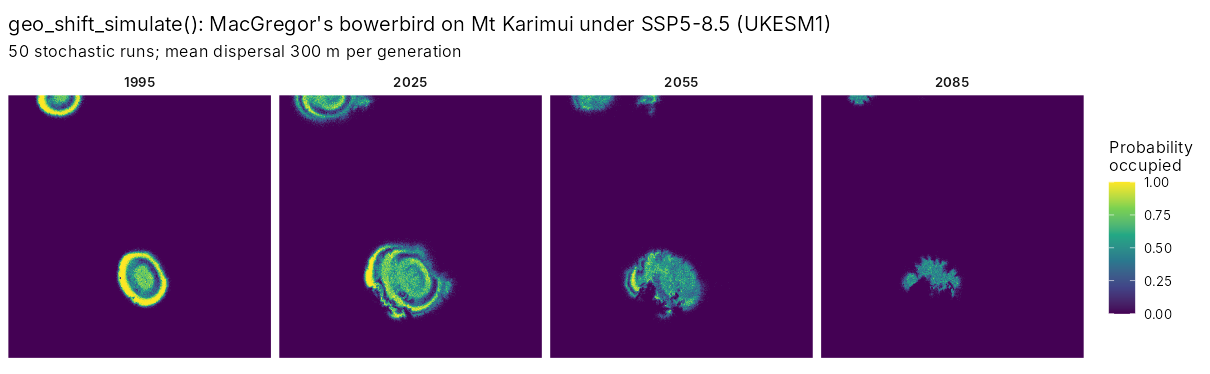
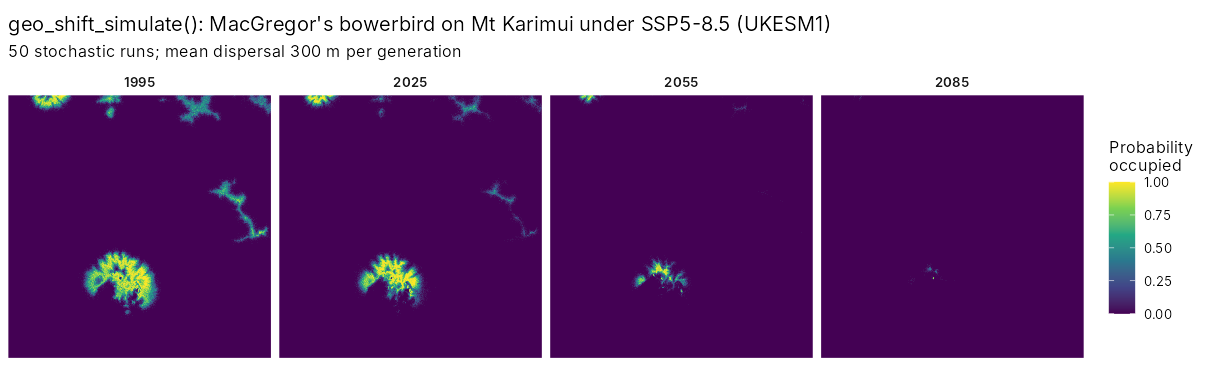
Regenerated range-shift figures with the corrected model; guide and paper updates

diff --git a/paper/paper.md b/paper/paper.md
@@ -129,7 +129,14 @@ then runs a stochastic colonisation-extinction model with a dispersal
 kernel in parallel C++ [@hanski1998], and `geo_shift_ensemble()`
 repeats this over climate models, emission scenarios and lapse rates,
 reporting the probability of losing a given share of the range
-(Figure 4).
+(Figure 4). The same engine handles invasions and disease: fat-tailed
+and human-assisted jumps, movement resistance, disturbance, and a
+spatial SIR epidemic model (`geo_epidemic_simulate()`), with
+`geo_spread_rate()` and `epi_growth_rate()` estimating spread rates and
+epidemic growth from data. Every stochastic component is checked
+against exact results (colonisation and persistence probabilities, the
+SIR final-size relation), and results do not depend on grid resolution
+or the number of threads.
 
 We hindcast the upslope shifts of 136 bird species resurveyed on Mt
 Karimui, Papua New Guinea, in 1965 and 2012 [@freeman2014], scoring
